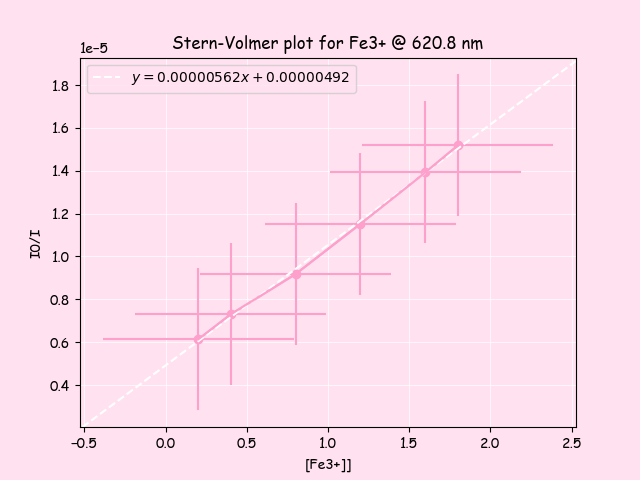
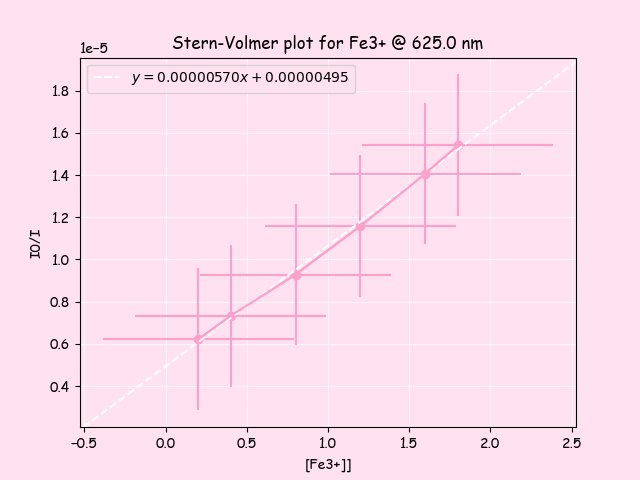
yay

diff --git a/part1.py b/part1.py
@@ -14,7 +14,8 @@ def normalise_col(x):
 def stern_volmer_y(x, noq):
 
     #find wl for max intensity
-    wl_at_peak = round(wl_4_peak(x), 1)
+    wl_at_peak = wl_4_peak(noq)
+    
     #make array for i0/i for each sample so len(i0/i array) = len(x) ie num samples
     result = []
    
@@ -37,18 +38,15 @@ def rate_coeff(slope):
     return kq
 
 
-def wl_4_peak(the_samples):
-    wavelengths = []
-    for sample in the_samples:
-        pk = np.amax(sample[:,1])
-        i = 0
-        for wl in sample[:,0]:
-            if sample[i,1] == pk:
-                wavelengths = np.append(wavelengths, wl)
-                break
-            i += 1
-    wl_at_peak = np.average(wavelengths)
-    return wl_at_peak
+def wl_4_peak(sample):
+    pk = np.amax(sample[:,1])
+    i = 0
+    for wl in sample[:,0]:
+        if sample[i,1] == pk:
+            wavelength = sample[i,0]
+            break
+        i += 1
+    return wavelength
 
 def kET(k22, x_red_potential, z):
     r_red_potential = -0.84
